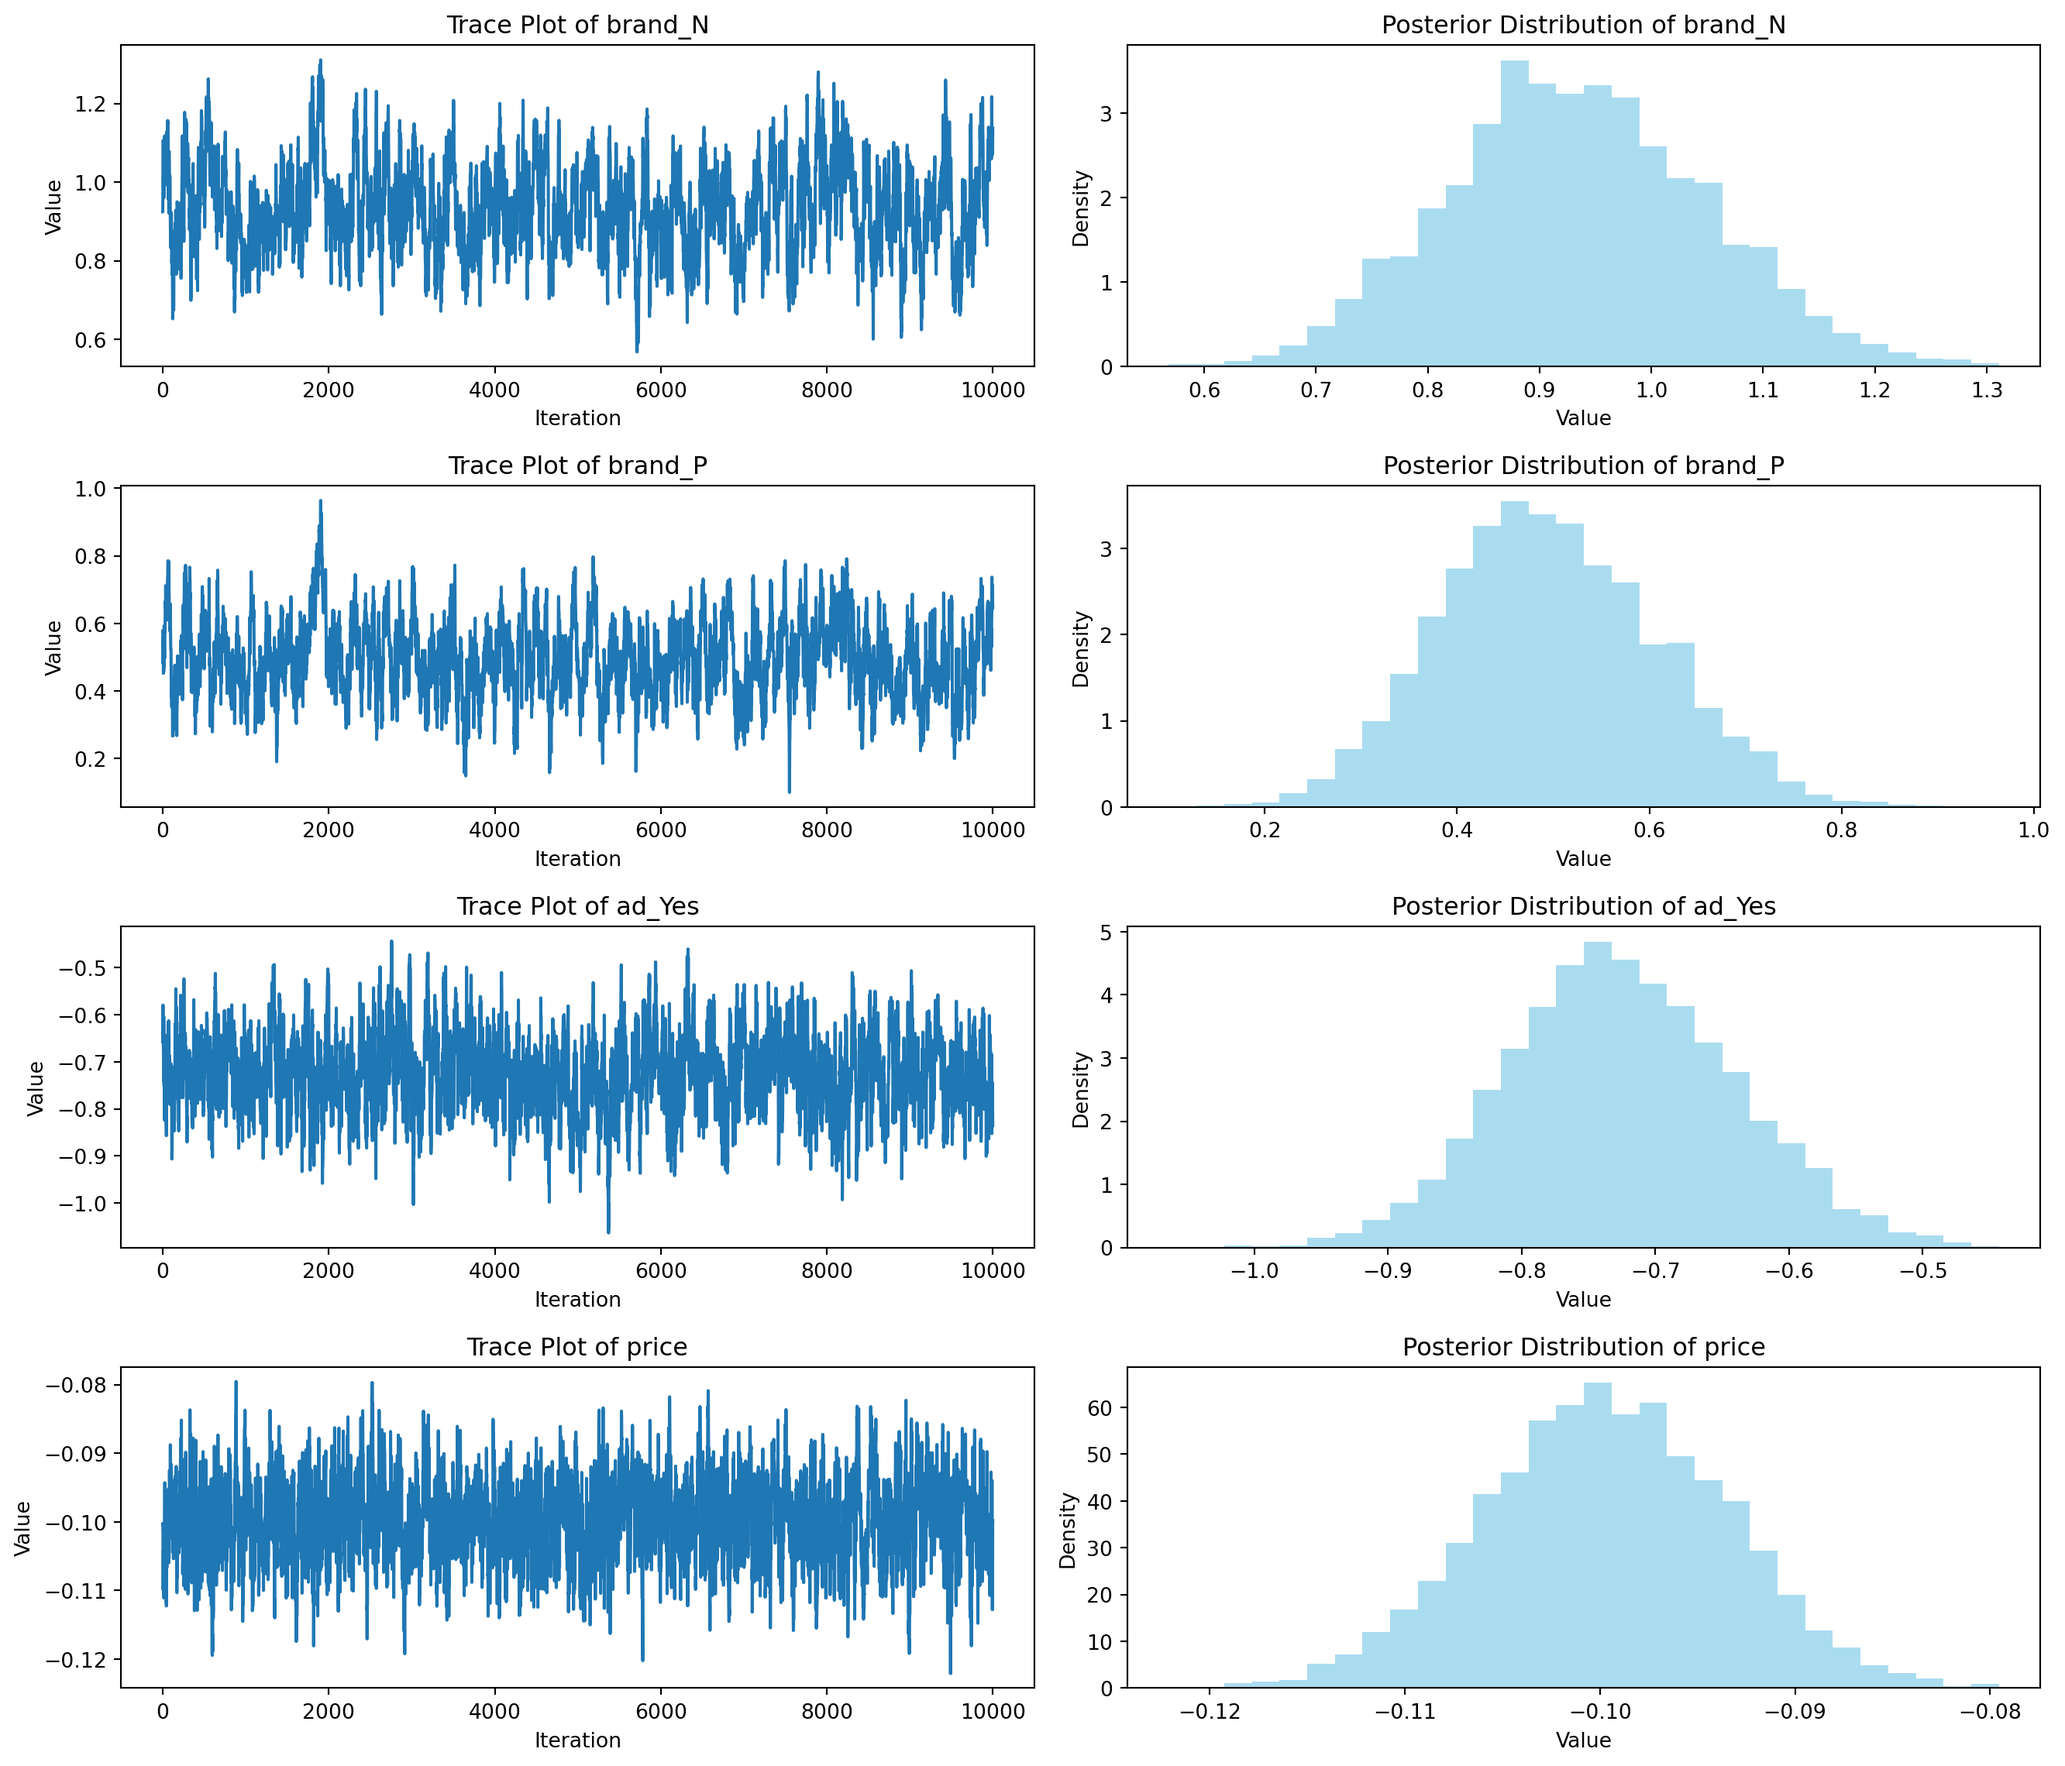
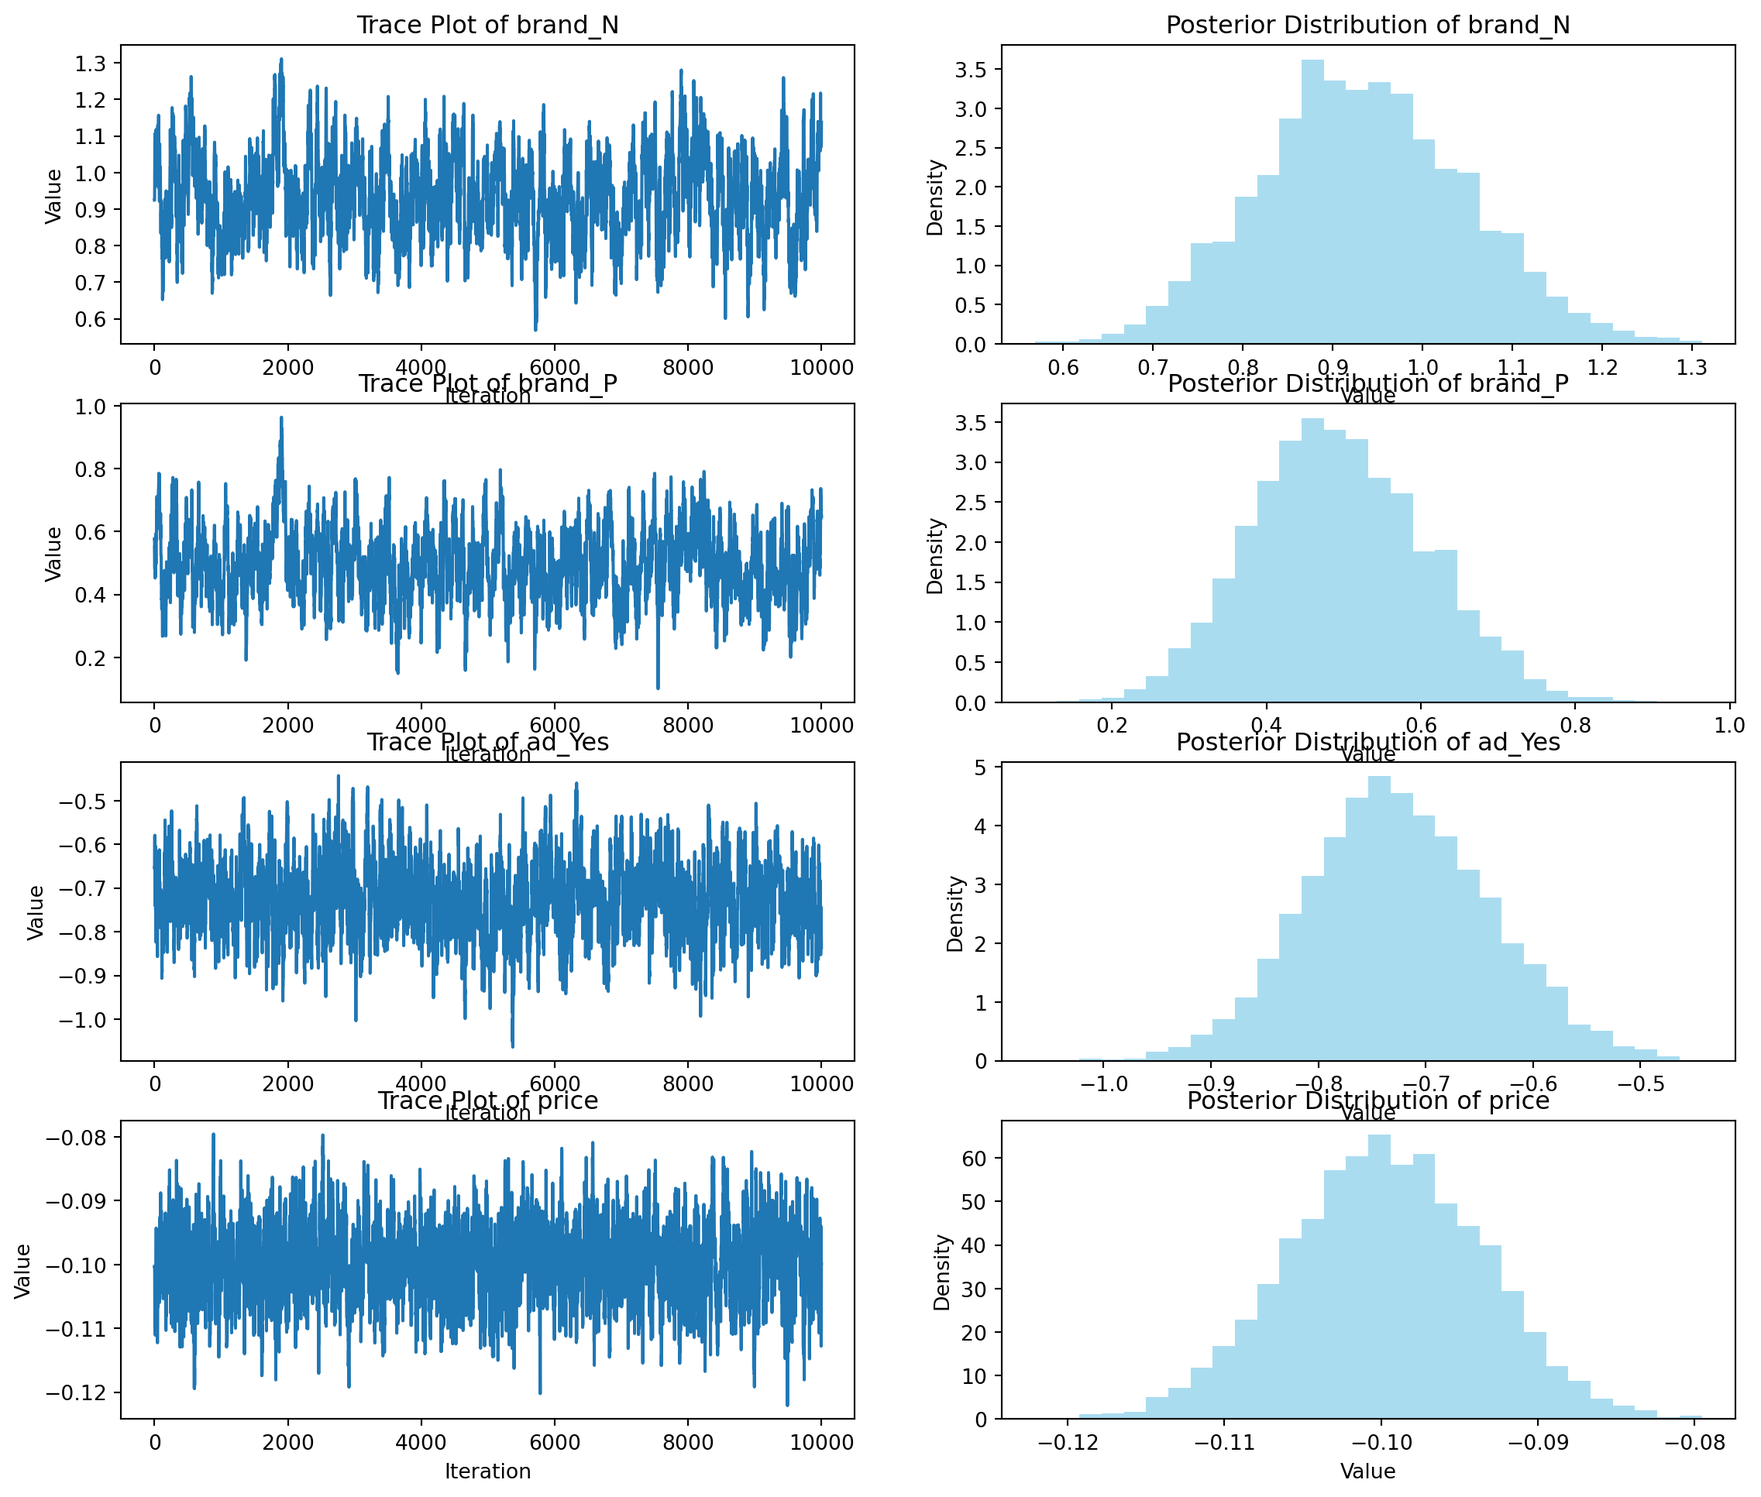
hw3 final updates

diff --git a/docs/homework/hw3/hw3_questions.html b/docs/homework/hw3/hw3_questions.html
@@ -289,7 +289,7 @@ u_{ij} = (1 \times Netflix_j) + (0.5 \times Prime_j) + (-0.8*Ads_j) - 0.1\times 
 <i class="callout-icon no-icon"></i>
 </div>
 <div class="callout-body-container">
-<div id="d32cd9de" class="cell" data-execution_count="1">
+<div id="6be14831" class="cell" data-execution_count="1">
 <div class="sourceCode cell-code" id="cb1"><pre class="sourceCode python code-with-copy"><code class="sourceCode python"><span id="cb1-1"><a href="#cb1-1" aria-hidden="true" tabindex="-1"></a><span class="im">import</span> numpy <span class="im">as</span> np</span>
 <span id="cb1-2"><a href="#cb1-2" aria-hidden="true" tabindex="-1"></a><span class="im">import</span> pandas <span class="im">as</span> pd</span>
 <span id="cb1-3"><a href="#cb1-3" aria-hidden="true" tabindex="-1"></a></span>
@@ -373,7 +373,7 @@ u_{ij} = (1 \times Netflix_j) + (0.5 \times Prime_j) + (-0.8*Ads_j) - 0.1\times 
 <p>The “hard part” of the MNL likelihood function is organizing the data, as we need to keep track of 3 dimensions (consumer <span class="math inline">\(i\)</span>, covariate <span class="math inline">\(k\)</span>, and product <span class="math inline">\(j\)</span>) instead of the typical 2 dimensions for cross-sectional regression models (consumer <span class="math inline">\(i\)</span> and covariate <span class="math inline">\(k\)</span>). The fact that each task for each respondent has the same number of alternatives (3) helps. In addition, we need to convert the categorical variables for brand and ads into binary variables.</p>
 <!-- _todo: reshape and prep the data_ -->
 <p>This is what our data looks like after we created dummy variables for the categorical variables (brand and ad features) and sorted it by respondent and task:</p>
-<div id="73e9c778" class="cell" data-execution_count="3">
+<div id="9cb1526b" class="cell" data-execution_count="3">
 <div class="cell-output cell-output-stdout">
 <pre><code>   resp  task  choice  price  brand_H  brand_N  brand_P  ad_No  ad_Yes
 0     1     1       1     28    False     True    False  False    True
@@ -388,7 +388,7 @@ u_{ij} = (1 \times Netflix_j) + (0.5 \times Prime_j) + (-0.8*Ads_j) - 0.1\times 
 <h2 class="anchored" data-anchor-id="estimation-via-maximum-likelihood">4. Estimation via Maximum Likelihood</h2>
 <!-- _todo: Code up the log-likelihood function._ -->
 <p>Let’s create the log-likelihood function.</p>
-<div id="b8221442" class="cell" data-execution_count="4">
+<div id="46396692" class="cell" data-execution_count="4">
 <div class="sourceCode cell-code" id="cb4"><pre class="sourceCode python code-with-copy"><code class="sourceCode python"><span id="cb4-1"><a href="#cb4-1" aria-hidden="true" tabindex="-1"></a><span class="kw">def</span> mnl_log_likelihood(X, Y, beta):</span>
 <span id="cb4-2"><a href="#cb4-2" aria-hidden="true" tabindex="-1"></a>    <span class="co">"""</span></span>
 <span id="cb4-3"><a href="#cb4-3" aria-hidden="true" tabindex="-1"></a><span class="co">    Compute the log-likelihood of a Multinomial Logit (MNL) model.</span></span>
@@ -423,14 +423,14 @@ u_{ij} = (1 \times Netflix_j) + (0.5 \times Prime_j) + (-0.8*Ads_j) - 0.1\times 
 </div>
 <!-- _todo: Use `optim()` in R or `scipy.optimize()` in Python to find the MLEs for the 4 parameters ($\beta_\text{netflix}$, $\beta_\text{prime}$, $\beta_\text{ads}$, $\beta_\text{price}$), as well as their standard errors (from the Hessian). For each parameter construct a 95% confidence interval._ -->
 <p>We will then use <code>scipy.optimize()</code> in Python to find the MLEs for the parameters. (<span class="math inline">\(\beta_\text{netflix}\)</span>, <span class="math inline">\(\beta_\text{prime}\)</span>, <span class="math inline">\(\beta_\text{ads}\)</span>, <span class="math inline">\(\beta_\text{price}\)</span>). We will also find their standard errors (from the Hessian). For each parameter construct a 95% confidence interval.</p>
-<div id="0fe92e38" class="cell" data-execution_count="5">
+<div id="68589387" class="cell" data-execution_count="5">
 <div class="sourceCode cell-code" id="cb5"><pre class="sourceCode python code-with-copy"><code class="sourceCode python"><span id="cb5-1"><a href="#cb5-1" aria-hidden="true" tabindex="-1"></a><span class="im">from</span> scipy.optimize <span class="im">import</span> minimize</span>
 <span id="cb5-2"><a href="#cb5-2" aria-hidden="true" tabindex="-1"></a></span>
 <span id="cb5-3"><a href="#cb5-3" aria-hidden="true" tabindex="-1"></a><span class="kw">def</span> neg_mnl_log_likelihood(beta, X, Y):</span>
 <span id="cb5-4"><a href="#cb5-4" aria-hidden="true" tabindex="-1"></a>    beta <span class="op">=</span> np.array(beta, dtype<span class="op">=</span>np.float64)</span>
 <span id="cb5-5"><a href="#cb5-5" aria-hidden="true" tabindex="-1"></a>    <span class="cf">return</span> <span class="op">-</span>mnl_log_likelihood(X, Y, beta)</span></code><button title="Copy to Clipboard" class="code-copy-button"><i class="bi"></i></button></pre></div>
 </div>
-<div id="b187cea5" class="cell" data-execution_count="6">
+<div id="f396d58e" class="cell" data-execution_count="6">
 <div class="cell-output cell-output-stdout">
 <pre><code>Optimization terminated successfully.
          Current function value: 879.855368
@@ -448,7 +448,7 @@ u_{ij} = (1 \times Netflix_j) + (0.5 \times Prime_j) + (-0.8*Ads_j) - 0.1\times 
 <section id="estimation-via-bayesian-methods" class="level2">
 <h2 class="anchored" data-anchor-id="estimation-via-bayesian-methods">5. Estimation via Bayesian Methods</h2>
 <p>Next we will estimate the MNL model using a Bayesian approach via a Metropolis-Hastings MCMC algorithm (a type of Markov Chain Monte Carlo). We are going to run th sampler for 11,000 steps and discard the first 1,000 (burn-in), retaining the subsequent 10,000 samples. This will allow our chain to converge. <!-- _todo: code up a metropolis-hasting MCMC sampler of the posterior distribution. Take 11,000 steps and throw away the first 1,000, retaining the subsequent 10,000._ --></p>
-<div id="811187a6" class="cell" data-execution_count="8">
+<div id="bac0abf8" class="cell" data-execution_count="8">
 <div class="sourceCode cell-code" id="cb7"><pre class="sourceCode python code-with-copy"><code class="sourceCode python"><span id="cb7-1"><a href="#cb7-1" aria-hidden="true" tabindex="-1"></a><span class="kw">def</span> metropolis_hastings_diag_proposal(log_post_func, initial_beta, steps, X, Y):</span>
 <span id="cb7-2"><a href="#cb7-2" aria-hidden="true" tabindex="-1"></a>    beta_current <span class="op">=</span> np.array(initial_beta, dtype<span class="op">=</span>np.float64)</span>
 <span id="cb7-3"><a href="#cb7-3" aria-hidden="true" tabindex="-1"></a>    posterior_current <span class="op">=</span> log_post_func(beta_current, X, Y)</span>
@@ -514,18 +514,26 @@ Step 10000 / 11000</code></pre>
 <!-- _hint: King Markov (in the video) use a candidate distribution of a coin flip to decide whether to move left or right among his islands.  Unlike King Markov, we have 4 dimensions (because we have 4 betas) and our dimensions are continuous.  So, use a multivariate normal distribution to pospose the next location for the algorithm to move to. I recommend a MNV(mu, Sigma) where mu=c(0,0,0,0) and sigma has diagonal values c(0.05, 0.05, 0.05, 0.005) and zeros on the off-diagonal.  Since this MVN has no covariances, you can sample each dimension independently (so 4 univariate normals instead of 1 multivariate normal), where the first 3 univariate normals are N(0,0.05) and the last one if N(0,0.005)._ -->
 <!-- _todo: for at least one of the 4 parameters, show the trace plot of the algorithm, as well as the histogram of the posterior distribution._ -->
 <p>Here is the trace plot of the algorithm and the histogram of the posterior distribution for each of the 4 parameters.</p>
-<div id="b1e15acd" class="cell" data-execution_count="9">
+<p>Note: Please scroll right to see the histograms to the right of the trace plots.</p>
+<div id="0207676b" class="cell" data-execution_count="9">
 <div class="cell-output cell-output-display">
 <div>
 <figure class="figure">
-<p><img src="hw3_questions_files/figure-html/cell-10-output-1.png" width="1333" height="1140" class="figure-img"></p>
+<p><img src="hw3_questions_files/figure-html/cell-10-output-1.png" width="1137" height="967" class="figure-img"></p>
+</figure>
+</div>
+</div>
+<div class="cell-output cell-output-display">
+<div>
+<figure class="figure">
+<p><img src="hw3_questions_files/figure-html/cell-10-output-2.png" width="860" height="572" class="figure-img"></p>
 </figure>
 </div>
 </div>
 </div>
 <p>The histograms for the posterior parameters all look roughly normal, which is a good sign that the MCMC algorithm has converged. The trace plots show that the samples are well-mixed and do not exhibit any obvious trends or patterns, indicating that the algorithm has explored the parameter space effectively. <!-- _todo: report the 4 posterior means, standard deviations, and 95% credible intervals and compare them to your results from the Maximum Likelihood approach._ --></p>
 <p>Let’s compare the posterior means, standard deviations, and 95% credible intervals to the Maximum Likelihood estimates.</p>
-<div id="40a00391" class="cell" data-execution_count="10">
+<div id="38f55943" class="cell" data-execution_count="10">
 <div class="cell-output cell-output-stdout">
 <pre><code>  Parameter  MLE Mean  MLE Std. Error  MLE 95% CI Lower  MLE 95% CI Upper
 0   brand_N  0.941195        0.082992          0.778531          1.103859

diff --git a/docs/homework.html b/docs/homework.html
@@ -304,7 +304,7 @@ window.Quarto = {
 
 </div></a></div>
 
-<div class="g-col-1" data-index="3" data-listing-date-sort="1748329200000" data-listing-file-modified-sort="1748411170978" data-listing-date-modified-sort="NaN" data-listing-reading-time-sort="15" data-listing-word-count-sort="2987">
+<div class="g-col-1" data-index="3" data-listing-date-sort="1748329200000" data-listing-file-modified-sort="1748411836002" data-listing-date-modified-sort="NaN" data-listing-reading-time-sort="16" data-listing-word-count-sort="3008">
 <a href="./homework/hw3/hw3_questions.html" class="quarto-grid-link">
 <div class="quarto-grid-item card h-100 card-left">
 
